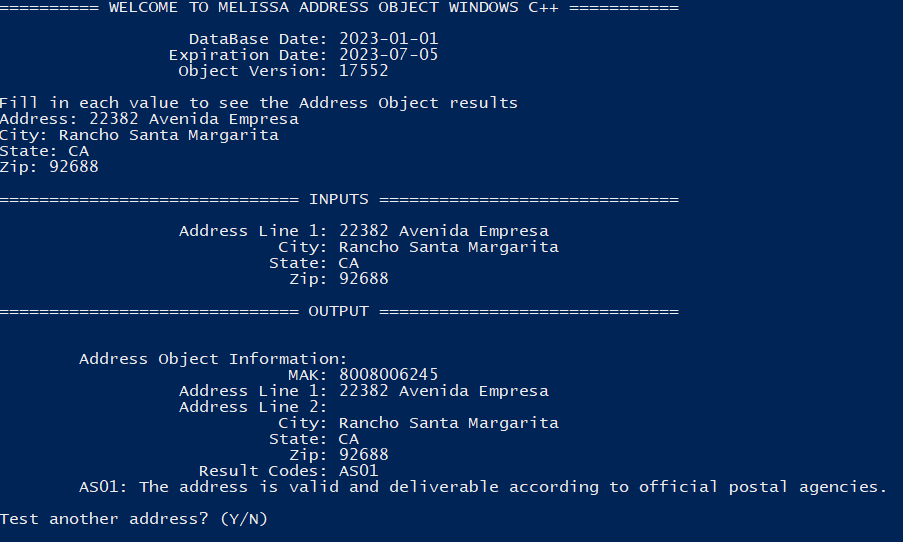
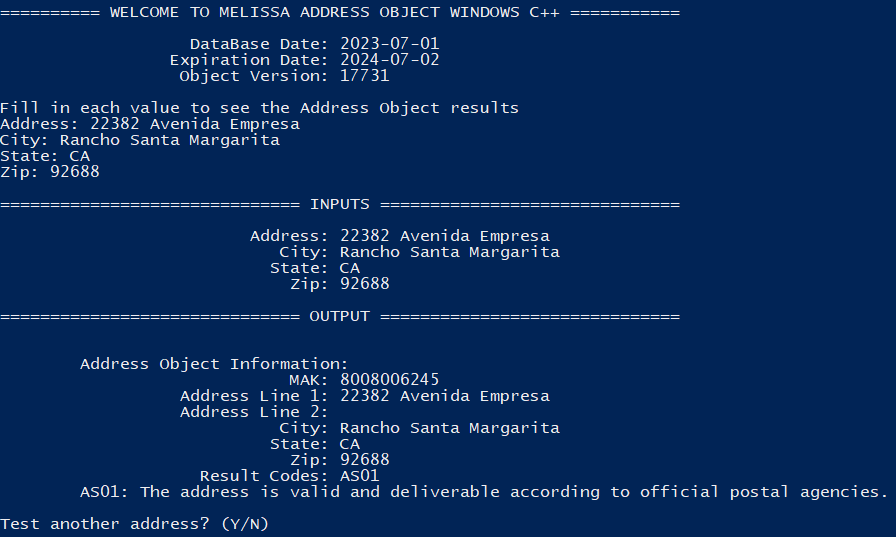
Tested successfully using Melissa data files for 2023.07

diff --git a/MelissaAddressObjectWindowsCpp/Main.cpp b/MelissaAddressObjectWindowsCpp/Main.cpp
@@ -126,7 +126,7 @@ void RunAsConsole(string license, string testAddress, string testCity, string te
 
 		// Print user input
 		cout << "\n============================== INPUTS ==============================\n" << endl;
-		cout << "                  Address Line 1: " + string(dataContainer.Address) << endl;
+		cout << "                         Address: " + string(dataContainer.Address) << endl;
 		cout << "                            City: " + string(dataContainer.City) << endl;
 		cout << "                           State: " + string(dataContainer.State) << endl;
 		cout << "                             Zip: " + string(dataContainer.Zip) << endl;

diff --git a/README.md b/README.md
@@ -22,12 +22,11 @@ And return
 - City
 - State
 - Zip
-- ResultCodes
+- Result Codes
 
 ## Tested Environments
-- Windows 64-bit Microsoft Visual C++ 14.34
-- Powershell 5.1
-- Melissa data files for 2023-06
+- Windows 10 64-bit Microsoft Visual C++ 14.34, Powershell 5.1
+- Melissa data files for 2023-07
 - Nmake 14.34
 - Visual Studio 2022 Developer Command Prompt v17.4.2 64-bit
 
@@ -71,7 +70,7 @@ This is the c++ code of the Melissa Object
 These instructions will get you a copy of the project up and running on your local machine for development and testing purposes.
 
 #### Visual Studio Developer Command Prompt
-It is important to note that you must be able to initialize the Visual Studio Developer Command Prompt environment for `x86_x64` in order to test the Melissa Phone Object. The Visual Studio Developer Command Prompt should already be downloaded if you have Microsoft Visual Studio installed. 
+It is important to note that you must be able to initialize the Visual Studio Developer Command Prompt environment for `x86_x64` in order to test the Melissa Address Object. The Visual Studio Developer Command Prompt should already be downloaded if you have Microsoft Visual Studio installed. 
 
 To check if you are able to intialize the Visual Studio Developer Command Prompt for `x86_x64`, you can open the start menu and search for `x86_x64 Cross Tools Command Prompt for VS 2022`. If this program exists, then you may continue to the next steps.
 
@@ -87,7 +86,7 @@ The console will then prompt you with the following warning shown in the image b
 
 #### Download this project
 ```
-$ git clone https://github.com/MelissaData/AddressObject-Cpp.git
+$ git clone https://github.com/MelissaData/AddressObject-Cpp
 $ cd AddressObject-Cpp
 ```
 
